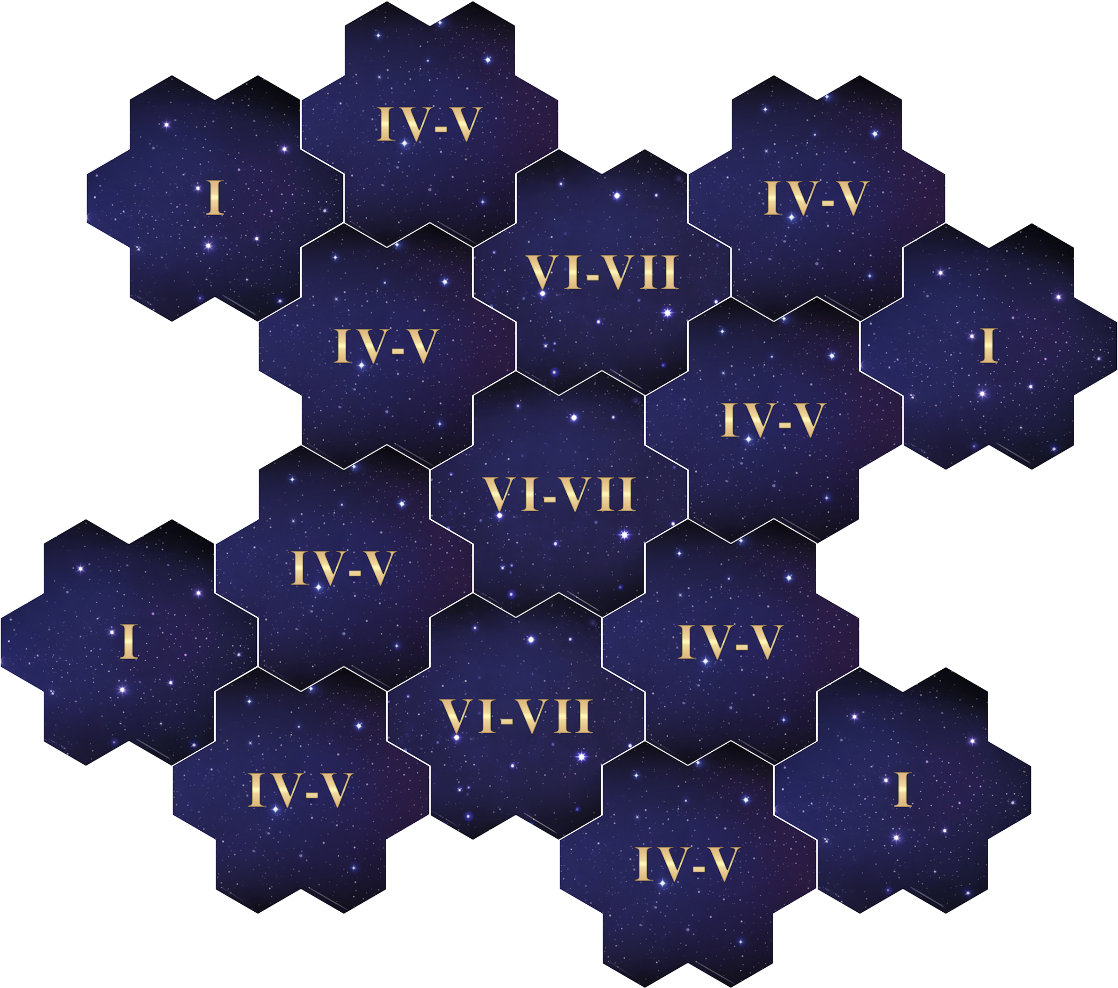
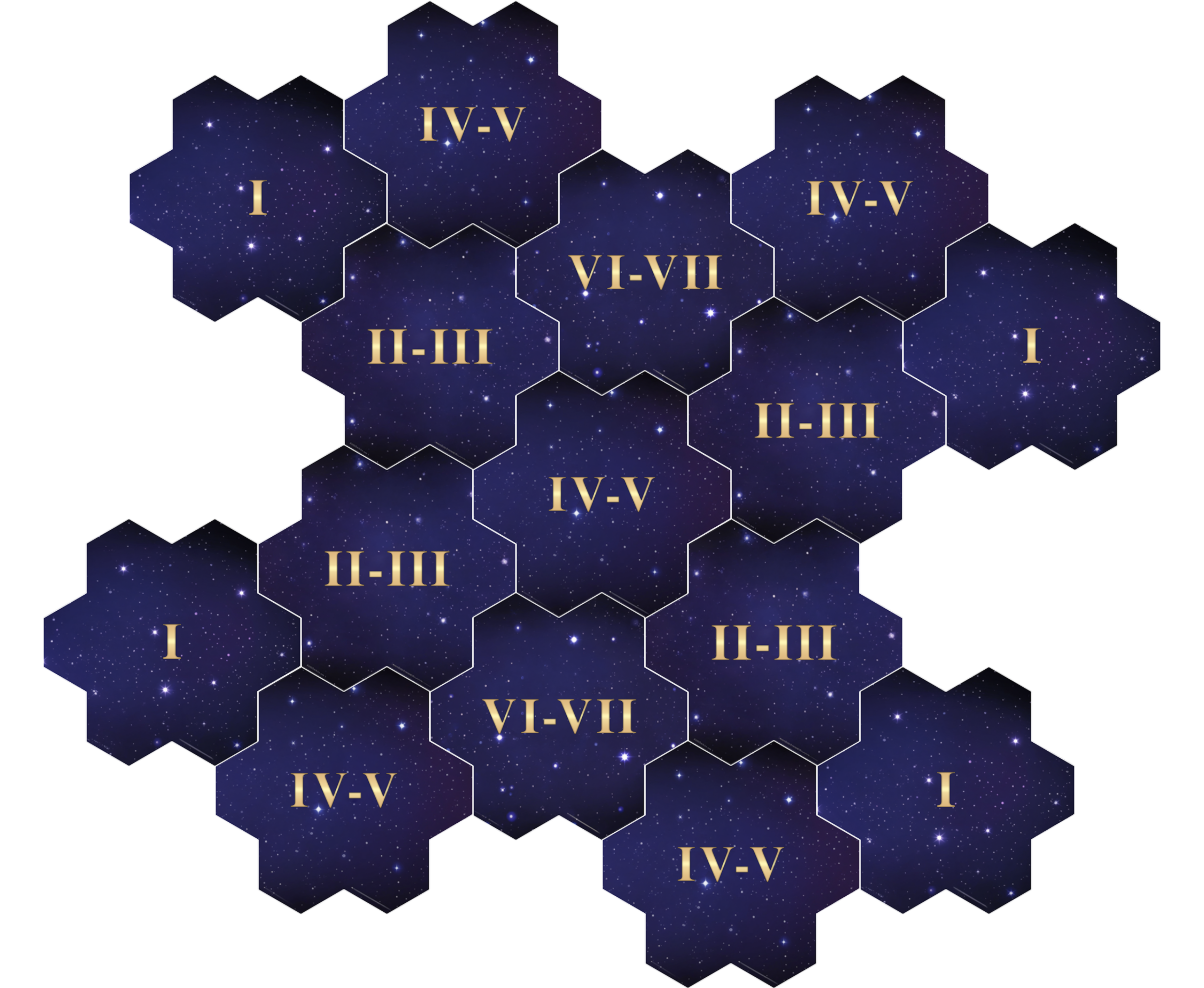
New version of Gold Rush

diff --git a/draft-scenarios/clash/gold_rush.tex b/draft-scenarios/clash/gold_rush.tex
@@ -1,7 +1,11 @@
 % !TeX spellcheck = en_US
 \addscenariosection{1}{Solo/Clash/Alliance Scenario}{Gold Rush}{\images/gold-mine.png}
 
-\begin{multicols}{2}
+\newenvironment{Figure}
+{\par\medskip\noindent\minipage{\linewidth}}
+{\endminipage\par\medskip}
+
+\begin{multicols*}{2}
 
 \textbf{Author:} farmaazon
 
@@ -17,7 +21,7 @@ This Scenario is played over 13 Rounds.
 
 \textbf{Player Count:} 1, 2 or 4 (Alliance variant)
 
-\textbf{Starting Resources:} 15 \svg{gold}, 6 \svg{building_materials}, 1 \svg{valuables}
+\textbf{Starting Resources:} 15 \svg{gold}, 3 \svg{building_materials}, 1 \svg{valuables}
 
 \textbf{Starting Income:} 10 \svg{gold}, 0 \svg{building_materials}, 0 \svg{valuables}
 
@@ -27,113 +31,73 @@ This Scenario is played over 13 Rounds.
   \item A Few \silver\ Units with the lowest Recruitment cost
 \end{itemize}
 
-\textbf{Town Buildings:} \bronze\ Dwelling
+\textbf{Town Buildings:} \bronze\ Dwelling, Citadel
 
-\textbf{Map Tile Pool:} Each player takes 3 Far (II--III) Map Tiles with at least one Settlement.
+\textbf{Map Tile Pool:} Each player takes 2 Far (II--III) Map Tiles.
+
+% It looks much better if Map Setup section is in new column.
+% Both \vfill or \columnbreak work strangely here.
+% Maybe replace it with some fancy image in the future.
+\vspace{9em}
 
 \subsection*{\MakeUppercase{Map Setup}}
 
 Take the following Map Tiles and arrange them as shown in the Scenario map layout ($P$ stands for the number of players):
 \begin{itemize}
-  \item P × Starting (I) Map Tile
-  \item 1 × Near (IV--V) Map Tile (N1), plus:
-  \begin{itemize}
-    \item \textbf{For Solo Play:} 1 × additional Near (IV--V) Map Tile containing an Obelisk
-    \item \textbf{For PvP Play:} 2P × additional Near (IV--V) Map Tiles, with exactly $P$ of them containing an Obelisk; Tiles with Obelisks cannot be adjacent to the N1 Tile
-  \end{itemize}
+  \item $P$ × Starting (I) Map Tile
+  \item $P$ × Far (II--III) Map Tile, each containing settlements
+  \item $(P + 1)$ × Near (IV--V) Map Tile:  N1 and $P$ containing an Obelisk
   \item 2 × Center (VI--VII) Map Tile (C2 and \#C1\footnote{If you do not have the Tower expansion, you may use C1 instead of \#C1, with two changes: the \textit{Dragon Utopia} is treated as a Settlement, and the \textit{Warrior's Tomb} is protected by Neutral Units instead of the Shrine. All special rules related to \#C1 should then be applied to C1.})
 \end{itemize}
-\subsection*{\MakeUppercase{Preparation}}
-
-Remove the following Cards from their respective Decks and organize them into 5 separate piles\footnote{If playing as Lord Haart, replace his starting \textit{Estates} Ability with \textit{Scouting}.}:
-
-\begin{enumerate}
-  \item \textit{Estates} Ability Card
-  \item Resource-generating Spell Cards (\textit{View Air} and any similar Spells)
-  \item All \textit{Statue of Legion} Artifact pieces (\textit{X of Legion} Artifacts)
-  \item \textit{Obelisk Pile}: remaining non-Relic Artifacts that grant resources (including those with one of the options) and have no \svg{permanent} effect
-  \item \textit{Remaining Artifacts}: remaining Artifacts that grant resources
-\end{enumerate}
-
-These removed Cards will be available at specific locations throughout the Scenario.
-
-\vfill
 
 \subsection*{\MakeUppercase{Additional Rules}}
 
-\begin{table*}[b!]
-  \hommtable[]{22}{
-    \centering
-    \begin{tabularx}{\linewidth}{p{0.25\linewidth}p{0.71\linewidth}}
-      \darkcell{Tile and Location} & \darkcell{Additional Rules} \\
-      \darkcell[1.3]{Obelisk}
-      & \lightcell[1.3]{Pick one Artifact from the \textit{Obelisk Pile}, or roll 2 \svg{treasure-note} and choose one result.} \\
-      \darkcell[1]{N1 Witch Hut}
-      & \lightcell[1]{Instead of the standard effect, gain one of the \textit{Estates} Abilities.} \\
-      \darkcell[1]{\#C1 Warrior Tomb}
-      & \lightcell[1]{Instead of searching for an Artifact, pick one \textit{Statue of Legion} piece.} \\
-      \darkcell[1.3]{\#C1/C2 Shrine of Magic Incantation}
-      & \lightcell[1.3]{Instead of searching for a Spell, gain one \textit{View Air} Spell.} \\
-      \darkcell[1.6]{\#C1 Settlement}
-      & \lightcell[1.6]{Combat with Neutral Units cannot be skipped*. The first player to visit gains all remaining Artifacts from the \textit{Obelisk} and \textit{Remaining Artifacts} piles.} \\
-      \darkcell[1.3]{C2 Grail}
-      & \lightcell[1.3]{Combat with Neutral Units cannot be skipped*. Take the Grail Token and lose all remaining \svgeven{movement-note}.} \\
-    \end{tabularx}
-    \medskip
-  }
-  {\footnotesize * Including Quick Combat. Bypassing without visiting the Field (such as with the \textit{Pathfinding} Ability) is still allowed.}
-\end{table*}
-
 \begin{itemize}
+  \item Before game, remove all cards granting resources (including those with one of the options) from their respective Decks, and form a \textbf{Resource Cards} pool. They will be available at specific locations throughout the Scenario. If any of these cards is removed from game, it goes back to the pool.
+  \item Lord Haart's starting \textit{Estates} Ability is replaced with \textit{Scouting}.
   \item At the start of certain Rounds, players must send a \textbf{tranche} to their lieges. The tranche value is expressed in \svg{gold}, but may be partially or entirely paid in other resources using these exchange rates: 1 \svg{building_materials} equals 2 \svg{gold} and 1 \svg{valuables} equals 4 \svg{gold}, with no change given. In Alliance mode, allied players collectively pay a single tranche. Any player or team unable to pay loses the game immediately.
   \item The difficulty of all Fields on the \#C1 Tile is lowered by one Level (effectively making it a ``V-VI'' Tile).
-  \item Certain locations have special rules, typically allowing players to acquire resource-generating Cards - refer to the table below.
-  \item A Main Hero carrying the Grail Token is not protected by the \textit{Sanctuary} effect.
-  \item The Surrendering cost for a Main Hero carrying the Grail Token is increased to 30 \svg{gold}.
-  \item When defeating an enemy Main Hero, the victorious player may, instead of taking \mbox{5 \svg{gold}}, choose to take either the Grail Token or one Artifact from the opponent's Discard Pile.
+  \item Certain locations have special rules, typically allowing players to acquire \textbf{Resource Cards} -- refer to the table at the next page.
+  \item A Hero carrying the Grail Token is not protected by the \textit{Sanctuary} effect.
+  \item If a Hero carrying the Grail Token surrenders or is defeated by an enemy Hero, they give the Token to the opponent.
+  \item If a Hero carrying the Grail Token is defeated by a Neutral Army, the Grail token is placed on the field where the Hero was defeated. Any hero visiting this filed takes the Token and loses all remaining \svg{movement}.
+  \item When defeating an enemy Main Hero, the victorious player may, instead of taking \mbox{5 \svg{gold}}, choose and take one Artifact from the opponent's Discard Pile.
 \end{itemize}
 
 \subsection*{\MakeUppercase{Victory Conditions}}
 
 \begin{itemize}
-  \item At the end of any Round, a player/team who possesses the Grail Token and can afford all remaining \textbf{tranches} wins immediately.
-  \item In \textbf{PvP games}, if no player wins after Round 13, the winner is the player/team who is able to pay the highest \textbf{tranche} value. When calculating this final value, possession of the Grail Token is worth an additional 60 \svg{gold}.
+  \item At the end of any Round, your Hero possesses the Grail Token and your team can afford all remaining \textbf{tranches}.
+  \item In \textbf{PvP games}, if nobody wins after 13 Rounds, the winner is the player/team who is able to pay the highest \textbf{tranche} value with remaining resources.
 \end{itemize}
 
 \subsection*{\MakeUppercase{Defeat Conditions}}
 
 \begin{itemize}
-  \item Any player/team unable to pay a required \textbf{tranche} loses the game immediately.
-  \item In \textbf{Solo play}, the player loses if they fail to meet the Victory Condition by the end of Round 13.
-  \item In \textbf{PvP games}, if all players/teams cannot pay their \textbf{tranche} in the same Round, the player/team closest to affording their \textbf{tranche} wins (with the Grail Token counting as 60 \svg{gold}).
+  \item Fail to pay a required \textbf{tranche}.
+  \item In \textbf{Solo play}: fail to meet the Victory Condition by the end of Round 13.
+  \item In \textbf{PvP games}, if both players/teams cannot pay their \textbf{tranche} in the same Round, the player/team with highest \textbf{tranche} value in remaining resources wins, with the Grail Token counting as 60 \svg{gold}.
 \end{itemize}
-
-\vfill
 
 \subsection*{\MakeUppercase{Timed Events}}
 
-Players must pay tranches at the start of specific Rounds, as shown in the table below. Tranches due on Resource Rounds are paid \textbf{after} receiving resources and resolving all other Round-beginning effects.
+Players must pay tranches at the start of specific Rounds, as shown in the table below. After paying, \textbf{remove all Black Cubes} from every Windmill and Water Wheel on the map.
 
-After paying a tranche, \textbf{remove all Black Cubes} from every Windmill and Water Wheel on the map.
 
-\hommtablemulticol[]{16}{
+\hommtablemulticol[]{14}{
   \centering
   \medskip
   \textbf{Tranches depending on the variant}\\
   \bigskip
-  \begin{tabularx}{0.95\linewidth}{XXXXX} \darkcell{Round} & \darkcell{Solo} & \darkcell{1v1} & \darkcell{2v2} \\
+  \begin{tabularx}{0.95\linewidth}{XXXX} \darkcell{Round} & \darkcell{Solo} & \darkcell{1v1} & \darkcell{2v2} \\
     \darkcell{\nth{4}}
     & \lightcell{20 \svg{gold}}
-    & \lightcell{20 \svg{gold}}
-    & \lightcell{40 \svg{gold}} \\
+    & \lightcell{15 \svg{gold}}
+    & \lightcell{30 \svg{gold}} \\
     \darkcell{\nth{8}}
     & \lightcell{50 \svg{gold}}
-    & \lightcell{–}
-    & \lightcell{–} \\
-    \darkcell{\nth{10}}
-    & \lightcell{–}
-    & \lightcell{60 \svg{gold}}
-    & \lightcell{120 \svg{gold}} \\
+    & \lightcell{35 \svg{gold}}
+    & \lightcell{70 \svg{gold}} \\
     \darkcell{\nth{12}}
     & \lightcell{80 \svg{gold}}
     & \lightcell{–}
@@ -145,21 +109,57 @@ After paying a tranche, \textbf{remove all Black Cubes} from every Windmill and 
   \end{tabularx}
 }
 
-\end{multicols}
+\begin{tikzpicture}[overlay]
+    \centering
+    \node at (4.4, -4.8) {\includegraphics[width=0.8\linewidth]{\maps/gold_rush-solo.png}};
+    \node at (5.7, -6.43) {\large{{\textbf{\textcolor{deepskyblue}{N1}}}}};
+    \node at (6.1, -4.32) {\large{{\textbf{\textcolor{deepskyblue}{\#C1}}}}};
+    \node at (6.5, -2.1) {\large{{\textbf{\textcolor{deepskyblue}{C2}}}}};
+    \node at (4.4, -9.0) {\footnotesize{\textbf{SOLO VARIANT}}};
+\end{tikzpicture}
+
+\end{multicols*}
 
 \begin{tikzpicture}[overlay]
     \centering
-    \node at (4.4, 5.5) {\includegraphics[width=0.45\textwidth]{\maps/gold_rush-solo.png}};
-    \node at (5.4, 5.05) {\large{{\textbf{\textcolor{deepskyblue}{N1}}}}};
-    \node at (4.4, 2.5) {\footnotesize{\textbf{SOLO VARIANT}}};
-
-    \node at (4.5, -2) {\includegraphics[width=0.48\textwidth]{\maps/gold_rush-1v1.png}};
-    \node at (4.9, 0.3) {\large{{\textbf{\textcolor{deepskyblue}{N1}}}}};
-    \node at (4.5, -1.5) {\large{{\textbf{\textcolor{deepskyblue}{\#C1}}}}};
-    \node at (4.1, -3.3) {\large{{\textbf{\textcolor{deepskyblue}{C2}}}}};
-    \node at (4.1, -6) {\footnotesize{\textbf{1v1 VARIANT}}};
-
-    \node at (13.6, -4) {\includegraphics[width=0.52\textwidth]{\maps/gold_rush-2v2.png}};
-    \node at (13.6, -3.5) {\large{{\textbf{\textcolor{deepskyblue}{N1}}}}};
-    \node at (13.6, -8.5) {\footnotesize{\textbf{2v2 VARIANT}}};
+    \node at (4.0, -3.0) {\includegraphics[width=0.48\textwidth]{\maps/gold_rush-1v1.png}};
+    \node at (3.7, -4.4) {\large{{\textbf{\textcolor{deepskyblue}{N1}}}}};
+    \node at (4.0, -2.57) {\large{{\textbf{\textcolor{deepskyblue}{\#C1}}}}};
+    \node at (4.35, -0.7) {\large{{\textbf{\textcolor{deepskyblue}{C2}}}}};
+    \node at (4.0, -6.5) {\footnotesize{\textbf{1v1 VARIANT}}};
+    
+    \node at (13.4, -4.6) {\includegraphics[width=0.56\textwidth]{\maps/gold_rush-2v2.png}};
+    \node at (13.4, -4.1) {\large{{\textbf{\textcolor{deepskyblue}{N1}}}}};
+    \node at (13.4, -9.3) {\footnotesize{\textbf{2v2 VARIANT}}};
 \end{tikzpicture}
+
+\begin{tikzpicture}[overlay]
+    
+\end{tikzpicture}
+
+\begin{table*}[t]
+  \hommtable[]{23}{
+    \centering
+      \begin{tabularx}{\linewidth}{p{0.25\linewidth}p{0.71\linewidth}}
+        \darkcell{Tile and Location} & \darkcell{Additional Rules} \\
+        \darkcell[1]{Obelisk}
+        & \lightcell[1]{Choose one Minor Artifact from Resource Cards, or take 6 \svg{gold}} \\
+        \darkcell[1]{N1 Witch Hut}
+        & \lightcell[1]{Instead of standard effect, you may take \textit{Estates} Ability.} \\
+        \darkcell[2]{\#C1 Warrior Tomb}
+        & \lightcell[2]{Instead of \textbf{one} Artifact Search, you may choose Minor or Major Artifact from Resource Cards. The other Search must be from Artifact Deck.} \\
+        \darkcell[1.3]{\#C1/C2 Shrine of Magic Incantation}
+        & \lightcell[1.3]{Instead of searching for a Spell, you may take one \textit{View Air} Spell.} \\
+        \darkcell[2]{\#C1 Settlement} 
+        & \lightcell[2]{Combat with Neutral Units cannot be skipped*. The choosen settlement bonus is doubled**. Choose 5 (if you're first to Flag) or 2 (otherwise) artifacts from Resource Cards.} \\
+        \darkcell[1.3]{C2 Grail}
+        & \lightcell[1.3]{Combat with Neutral Units cannot be skipped\footnotemark[1]. Take the Grail Token and lose all remaining \svgeven{movement-note}.} \\
+      \end{tabularx}
+    \medskip
+    }
+  \footnotesize{* Including Quick Combat. Bypassing without visiting the Field (such as with the \textit{Pathfinding} Ability) is still allowed.}
+
+  \footnotesize{** For example: if you choose increasing \svg{valuables} production, you increase it by two levels and get 10 \svg{valuables} if you are first player to Flag this settlement. If you choose reinforcement, you may reinforce two units.}
+\end{table*}
+
+
